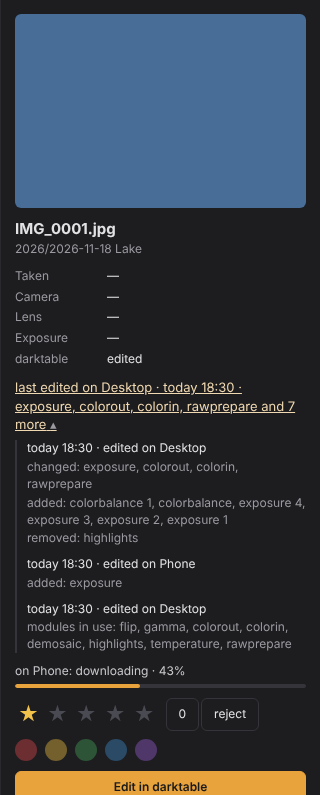
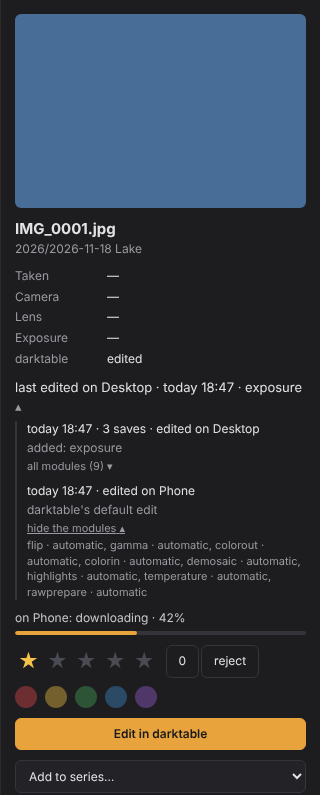
Web: darktable's own modules behind 'all modules', several saves of a day as one entry; browser check and screenshots updated
Claude-Session: https://claude.ai/code/session_01SnXMKqCqVb6BeiquEaojVL

diff --git a/web/tests/edits.test.ts b/web/tests/edits.test.ts
@@ -4,7 +4,7 @@
 process.env.TZ = 'UTC'
 import { test } from 'node:test'
 import assert from 'node:assert/strict'
-import { changeLines, editWhere, fmtWhen, lastEditLine } from '../src/edits.ts'
+import { allModules, changeLines, editWhere, entryWhen, fmtWhen, lastEditLine } from '../src/edits.ts'
 import { itemProgress, photoActivity, serverNow } from '../src/devices.ts'
 import type { EditEvent, EditModule } from '../src/api.ts'
 
@@ -50,9 +50,31 @@ test('list of edits: one line per kind of change', () => {
 })
 
 test('list of edits: nothing to compare with, or no history', () => {
-  assert.deepEqual(changeLines(ev({ modules: [mod('exposure'), mod('mask_manager', 'mask_manager', '', false)] })),
-    ['modules in use: exposure', 'off: mask_manager'])
+  assert.deepEqual(changeLines(ev({ modules: [mod('exposure'), mod('vignette', 'vignette', '', false)] })),
+    ['modules in use: exposure', 'off: vignette'])
   assert.deepEqual(changeLines(ev({ modules: [] })), ['no darktable edit'])
+})
+
+const auto = (m: EditModule): EditModule => ({ ...m, auto: true })
+
+test('list of edits: what darktable applied by itself is left out, and stays under "all modules"', () => {
+  const opened = [auto(mod('rawprepare', 'raw black/white point')), auto(mod('exposure', 'exposure', 'scene-referred default')),
+    auto(mod('mask_manager', 'mask_manager', '', false))]
+  assert.deepEqual(changeLines(ev({ modules: opened })), ["darktable's default edit"])
+  assert.deepEqual(changeLines(ev({ modules: [...opened, mod('colorbalancergb', 'color balance rgb')] })), ['modules in use: color balance rgb'])
+  assert.deepEqual(allModules(ev({ modules: [...opened, mod('vignette', 'vignette', '', false)] })),
+    ['raw black/white point · automatic', 'exposure scene-referred default · automatic', 'mask_manager · automatic · off', 'vignette · off'])
+  // the server's summary is shown as it comes
+  assert.equal(lastEditLine(ev({ modules: opened, summary: "darktable's default edit" }), T + 60),
+    "last edited on Desktop · today 14:05 · darktable's default edit")
+})
+
+test('list of edits: several saves of one day are one entry', () => {
+  assert.equal(entryWhen({ time: T }, T + 60), 'today 14:05')
+  assert.equal(entryWhen({ time: T, first_time: T - 3 * 3600 - 300, saves: 5 }, T + 60), 'today 11:00–14:05 · 5 saves')
+  assert.equal(entryWhen({ time: T, first_time: T - 600, saves: 2 }, T + 20 * 86400), '18 Nov 13:55–14:05 · 2 saves')
+  assert.equal(entryWhen({ time: T, saves: 1, first_time: T }, T + 60), 'today 14:05')
+  assert.equal(entryWhen({ time: T + 20, first_time: T, saves: 3 }, T + 60), 'today 14:05 · 3 saves')  // all in one minute  // a server that sends them for one save
 })
 
 // ---------------------------------------------------------------- progress bar (R16)

diff --git a/web/src/edits.ts b/web/src/edits.ts
@@ -45,12 +45,23 @@ export function lastEditLine(e: EditEvent, now?: number, agents: Pick<Agent, 'id
 
 const names = (ms: EditModule[]) => ms.map(m => m.label).join(', ')
 
-/** One line per kind of change ("changed: exposure"), or the modules in use when there is nothing to compare with. */
+/** When an entry was saved: "today 18:30", or for several saves of the day "today 10:02–18:30 · 5 saves". */
+export function entryWhen(e: Pick<EditEvent, 'time' | 'first_time' | 'saves'>, now?: number): string {
+  const n = e.saves || 1
+  if (n < 2 || !e.first_time || e.first_time >= e.time) return fmtWhen(e.time, now) + (n > 1 ? ` · ${n} saves` : '')
+  const d = new Date(e.time * 1000), from = fmtWhen(e.first_time, now), to = `${two(d.getHours())}:${two(d.getMinutes())}`
+  return `${from.endsWith(to) ? fmtWhen(e.time, now) : `${from}–${to}`} · ${n} saves`  // all in one minute: once
+}
+
+/** One line per kind of change ("changed: exposure"), or, when there is nothing to compare with, the modules in
+ *  use that darktable did not apply by itself ("darktable's default edit" when there are none). */
 export function changeLines(e: Pick<EditEvent, 'changes' | 'modules'>): string[] {
   if (!e.changes) {
-    const on = e.modules.filter(m => m.enabled), off = e.modules.filter(m => !m.enabled)
     if (!e.modules.length) return ['no darktable edit']
-    const out = [`modules in use: ${names(on) || 'none'}`]
+    const mine = e.modules.filter(m => !m.auto)
+    const on = mine.filter(m => m.enabled), off = mine.filter(m => !m.enabled)
+    if (!on.length && !off.length) return ["darktable's default edit"]
+    const out = on.length ? [`modules in use: ${names(on)}`] : []
     if (off.length) out.push(`off: ${names(off)}`)
     return out
   }
@@ -62,4 +73,10 @@ export function changeLines(e: Pick<EditEvent, 'changes' | 'modules'>): string[]
   if (c.switched_off.length) out.push(`switched off: ${names(c.switched_off)}`)
   if (c.removed.length) out.push(`removed: ${names(c.removed)}`)
   return out.length ? out : ['no module changed']
+}
+
+/** Every module of an edit, darktable's automatic ones and switched-off ones marked: "exposure",
+ *  "raw black/white point · automatic", "vignette · off". */
+export function allModules(e: Pick<EditEvent, 'modules'>): string[] {
+  return e.modules.map(m => m.label + (m.auto ? ' · automatic' : '') + (m.enabled ? '' : ' · off'))
 }

diff --git a/web/src/components/EditRecord.tsx b/web/src/components/EditRecord.tsx
@@ -4,7 +4,7 @@
 import { useEffect, useState } from 'react'
 import { api, EditEvent, Photo } from '../api'
 import { useStore } from '../store'
-import { changeLines, editWhere, fmtWhen, lastEditLine } from '../edits'
+import { allModules, changeLines, editWhere, entryWhen, lastEditLine } from '../edits'
 
 /** Re-render every few seconds while on, so a progress bar goes away when its device stops reporting
  *  even if this page stops getting answers from the server. */
@@ -64,12 +64,20 @@ export function EditList({ edits }: { edits: EditEvent[] | null }) {
   if (!edits) return <span className="small muted">Loading…</span>
   return (
     <ol className="editlist" aria-label="Edits of this photo, newest first">
-      {edits.map(e => (
-        <li key={e.id}>
-          <span className="small">{fmtWhen(e.time)} · edited {editWhere(e, s.agents)}</span>
-          {changeLines(e).map((l, i) => <span key={i} className="small muted">{l}</span>)}
-        </li>
-      ))}
+      {edits.map(e => <EditEntry key={e.id} e={e} agents={s.agents} />)}
     </ol>
+  )
+}
+
+function EditEntry({ e, agents }: { e: EditEvent; agents: Parameters<typeof editWhere>[1] }) {
+  const [all, setAll] = useState(false)
+  return (
+    <li>
+      <span className="small">{entryWhen(e)} · edited {editWhere(e, agents)}</span>
+      {changeLines(e).map((l, i) => <span key={i} className="small muted">{l}</span>)}
+      {e.modules.length > 0 && <button className="linkbtn" style={{ fontSize: 11, color: 'var(--muted)' }} aria-expanded={all} onClick={() => setAll(!all)}>
+        {all ? 'hide the modules' : `all modules (${e.modules.length})`} {all ? '▴' : '▾'}</button>}
+      {all && <span className="tiny muted" aria-label="All modules of this edit">{allModules(e).join(', ')}</span>}
+    </li>
   )
 }

diff --git a/web/src/api.ts b/web/src/api.ts
@@ -40,7 +40,9 @@ export interface Photo {
 
 /** A darktable module instance in an edit: operation, its English name (from module-names.json on the
  *  server, else the operation), the instance's name, on or off; label = name + instance name. */
-export interface EditModule { operation: string; name: string; instance: string; priority: number; enabled: boolean; label: string }
+export interface EditModule { operation: string; name: string; instance: string; priority: number; enabled: boolean; label: string
+  /** in an edit's modules: darktable applied it by itself and nobody changed it (left out of the summary) */
+  auto?: boolean }
 export interface EditChanges { added: EditModule[]; removed: EditModule[]; switched_on: EditModule[]; switched_off: EditModule[]; changed: EditModule[] }
 /** Who edited a photo and what changed (GET /api/photos/{id}/edits). source: agent = posted by a device,
  *  outside = found changed on the NAS, import = sent from a PC's local library, local = darktable on this PC.
@@ -49,6 +51,8 @@ export interface EditEvent {
   id: number; photo_id: number; time: number; source: 'agent' | 'outside' | 'import' | 'local' | string
   agent_id: string | null; device: string | null; device_os: string | null
   modules: EditModule[]; changes: EditChanges | null; summary: string
+  /** saves of one device on one day are one entry: time is the last save, first_time the first */
+  first_time?: number; saves?: number
 }
 
 export interface SortLevel { f: string; d: 'asc' | 'desc' }

diff --git a/web/tests/browser-check.py b/web/tests/browser-check.py
@@ -12,6 +12,8 @@ over the API (real darktable XMPs from server/tests/fixtures/xmp), and checks wh
 bar must go away when the phone stops sending heartbeats (LPL counts a device offline after 15 s)."""
 import json
 import os
+import re
+import shutil
 import socket
 import subprocess
 import sys
@@ -40,7 +42,12 @@ def main(py: str, shots: Path) -> None:
     base = "http://127.0.0.1:%d" % port
     env = dict(os.environ, PHOTO_ROOT=str(tmp / "photos"), DATA_DIR=str(tmp / "data"), WEB_DIR=str(ROOT / "web" / "dist"),
                PORT=str(port), HOST="127.0.0.1", LPL_PASSWORD="", SCAN_INTERVAL="0", LOG_LEVEL="WARNING")
-    srv = subprocess.Popen([py, "-m", "lpl.main"], cwd=str(ROOT / "server"), env=env)
+    # the server runs from a copy, with module-flags.json (generated from the darktable-android schema, see
+    # server/tests/fixtures/xmp/SOURCE.md) at its place in resources/, so darktable's own modules are recognised
+    shutil.copytree(ROOT / "server" / "lpl", tmp / "server" / "lpl", ignore=shutil.ignore_patterns("__pycache__"))
+    (tmp / "server" / "lpl" / "resources").mkdir(exist_ok=True)
+    shutil.copy(ROOT / "server" / "tests" / "fixtures" / "module-flags.json", tmp / "server" / "lpl" / "resources" / "module-flags.json")
+    srv = subprocess.Popen([py, "-m", "lpl.main"], cwd=str(tmp / "server"), env=env)
 
     def call(method, path, body=None, ctype="application/json"):
         data = body if isinstance(body, bytes) else (json.dumps(body).encode() if body is not None else None)
@@ -62,9 +69,13 @@ def main(py: str, shots: Path) -> None:
         call("POST", "/api/agents/heartbeat", {**pc, "state": {"working_set": []}})
         call("POST", "/api/agents/heartbeat", {**phone, "state": {"working_set": []}})
         xmp = lambda n: (XMPS / n).read_bytes()
-        call("POST", "/api/photos/1/xmp?checkout_ts=0&agent=pc-desktop", xmp("nop.xmp"), "application/rdf+xml")
-        call("POST", "/api/photos/1/xmp?checkout_ts=0&agent=android-phone", xmp("exposure.xmp"), "application/rdf+xml")
-        call("POST", "/api/photos/1/xmp?checkout_ts=0&agent=pc-desktop", xmp("blending-modes-uniform.xmp"), "application/rdf+xml")
+        # photo 1: opened on the phone (darktable's default edit only), then three exposure steps on the desktop
+        call("POST", "/api/photos/1/xmp?checkout_ts=0&agent=android-phone", xmp("nop.xmp"), "application/rdf+xml")
+        for v in (b"0000803f", b"0000003f", b"00000040"):
+            data = re.sub(rb'(darktable:operation="exposure"[^>]*darktable:params=")[^"]*', lambda m: m.group(1) + v * 7, xmp("exposure.xmp"))
+            call("POST", "/api/photos/1/xmp?checkout_ts=0&agent=pc-desktop", data, "application/rdf+xml")
+        # photo 3: only opened in darktable on the desktop
+        call("POST", "/api/photos/3/xmp?checkout_ts=0&agent=pc-desktop", xmp("nop.xmp"), "application/rdf+xml")
 
         def beats():  # the phone downloads photo 1, the PC sends the edit of photo 2
             k = 0
@@ -89,7 +100,7 @@ def main(py: str, shots: Path) -> None:
             page.goto(base + "/?photo=1")
             line = page.get_by_role("button", name="last edited on Desktop")
             expect(line).to_be_visible(timeout=15000)
-            assert "last edited on Desktop · today" in line.inner_text(), line.inner_text()
+            assert "last edited on Desktop · today" in line.inner_text() and line.inner_text().endswith("· exposure ▾"), line.inner_text()
             bar = page.get_by_role("progressbar", name="on Phone: downloading")
             expect(bar).to_be_visible(timeout=10000)
             results.append("desktop: last-edit line: " + line.inner_text())
@@ -97,10 +108,20 @@ def main(py: str, shots: Path) -> None:
             lst = page.get_by_role("list", name="Edits of this photo, newest first")
             expect(lst).to_be_visible()
             items = lst.locator("li")
-            expect(items).to_have_count(3)
-            assert "edited on Phone" in items.nth(1).inner_text() and "added: exposure" in items.nth(1).inner_text()
-            results.append("desktop: list of edits: %d entries" % items.count())
+            expect(items).to_have_count(2)  # the desktop's three saves are one entry
+            first = items.nth(0).inner_text()
+            assert "3 saves · edited on Desktop" in first and "added: exposure" in first, first
+            assert "darktable's default edit" in items.nth(1).inner_text() and "edited on Phone" in items.nth(1).inner_text()
+            items.nth(1).get_by_role("button", name="all modules (8)").click()
+            # no module-names.json here: operation names
+            expect(items.nth(1).get_by_label("All modules of this edit")).to_contain_text("rawprepare · automatic")
+            results.append("desktop: list of edits: 2 entries (3 saves merged; the phone's: darktable's default edit, all modules behind it)")
             page.locator(".right").screenshot(path=str(shots / "desktop-last-edit-and-progress.png"))
+            page.goto(base + "/?photo=3")
+            l3 = page.get_by_role("button", name="last edited on Desktop")
+            expect(l3).to_contain_text("darktable's default edit", timeout=15000)
+            results.append("desktop: photo only opened: " + l3.inner_text())
+            page.locator(".right").screenshot(path=str(shots / "desktop-only-opened.png"))
             page.get_by_role("button", name="Working set").first.click()
             expect(page.get_by_role("progressbar", name="sending the edit")).to_be_visible()
             expect(page.get_by_role("progressbar", name="downloading")).to_be_visible()
@@ -117,7 +138,8 @@ def main(py: str, shots: Path) -> None:
             pline.scroll_into_view_if_needed()
             ph.screenshot(path=str(shots / "phone-last-edit-and-progress.png"))
             pline.click()
-            expect(ph.get_by_role("list", name="Edits of this photo, newest first").locator("li")).to_have_count(3)
+            expect(ph.get_by_role("list", name="Edits of this photo, newest first").locator("li")).to_have_count(2)
+            ph.get_by_role("button", name="all modules (8)").click()
             ph.get_by_role("list", name="Edits of this photo, newest first").scroll_into_view_if_needed()
             ph.screenshot(path=str(shots / "phone-list-of-edits.png"))
             results.append("phone: last-edit line and list of edits")
